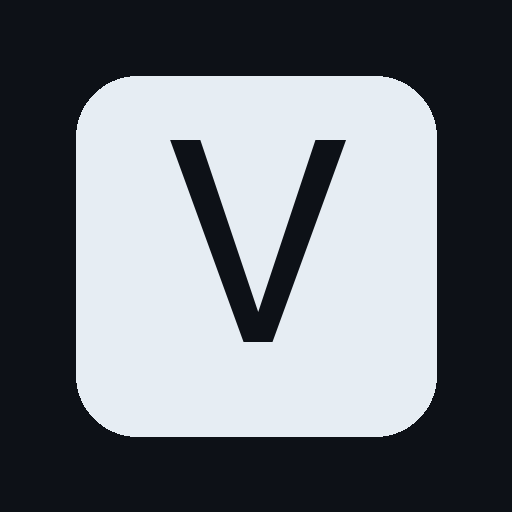
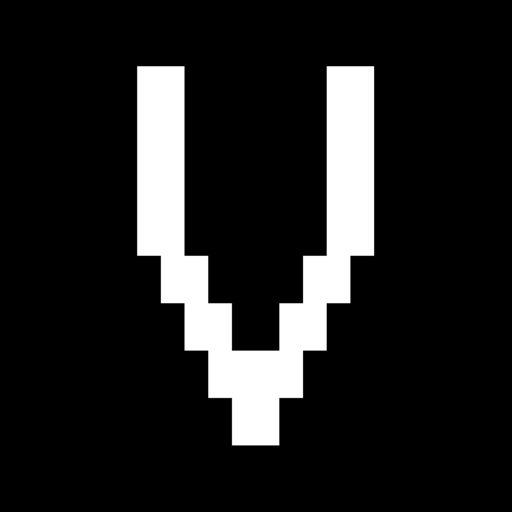
feat: новые фавиконы (light в браузере / dark на iPhone) + filled play/pause
Иконки:
- favicon-{16,32,192}.png — light вариант (белый фон, чёрная V) для табов браузера
- icon-{192,512}.png + apple-touch-icon.png — dark вариант (чёрный фон, белая V)
  чтобы PWA на iPhone выглядела нативно
- index.html: подключил все размеры

Audio плеер:
- Play/Pause иконки заполненные (fill=currentColor, strokeWidth=0) вместо line-art

CACHE_VERSION → veni-v4 чтобы service worker не отдал старые иконки.

diff --git a/index.html b/index.html
@@ -8,14 +8,18 @@
 
     <!-- PWA -->
     <link rel="manifest" href="./manifest.webmanifest" />
-    <link rel="icon" type="image/png" sizes="192x192" href="./icon-192.png" />
-    <link rel="icon" type="image/png" sizes="512x512" href="./icon-512.png" />
 
-    <!-- iOS standalone (как нативное приложение из Safari → На экран Домой) -->
+    <!-- Browser-favicon — light версия (белый фон, чёрная V) — ярко в табе -->
+    <link rel="icon" type="image/png" sizes="16x16"   href="./favicon-16.png" />
+    <link rel="icon" type="image/png" sizes="32x32"   href="./favicon-32.png" />
+    <link rel="icon" type="image/png" sizes="192x192" href="./favicon-192.png" />
+
+    <!-- iOS standalone (как нативное приложение из Safari → На экран Домой):
+         dark-вариант, белая V на чёрном — выглядит нативно -->
     <meta name="apple-mobile-web-app-capable" content="yes" />
     <meta name="apple-mobile-web-app-status-bar-style" content="black-translucent" />
     <meta name="apple-mobile-web-app-title" content="VENI" />
-    <link rel="apple-touch-icon" href="./icon-192.png" />
+    <link rel="apple-touch-icon" href="./apple-touch-icon.png" />
 
     <title>VENI — Universal API Hub</title>
   </head>

diff --git a/src/components/SmartViewer.tsx b/src/components/SmartViewer.tsx
@@ -1060,9 +1060,9 @@ function AudioPlayer({ src }: { src: string }) {
         aria-label={playing ? "Пауза" : "Воспроизвести"}
       >
         {playing ? (
-          <Pause size={14} strokeWidth={2} />
+          <Pause size={14} strokeWidth={0} fill="currentColor" />
         ) : (
-          <Play size={14} strokeWidth={2} />
+          <Play size={14} strokeWidth={0} fill="currentColor" />
         )}
       </button>
       <input

diff --git a/public/sw.js b/public/sw.js
@@ -6,7 +6,7 @@
  * из сети и сохраняет; следующее обращение отдаёт кэш и обновляет
  * фоном — поэтому юзер не ждёт сети, а получает свежее на след. визите.
  */
-const CACHE_VERSION = "veni-v3";
+const CACHE_VERSION = "veni-v4";
 
 // Базовый scope — директория где зарегистрирован SW. На корневом
 // домене это "/", на subpath (типа GitHub Pages /veni-hub/) — "/veni-hub/".